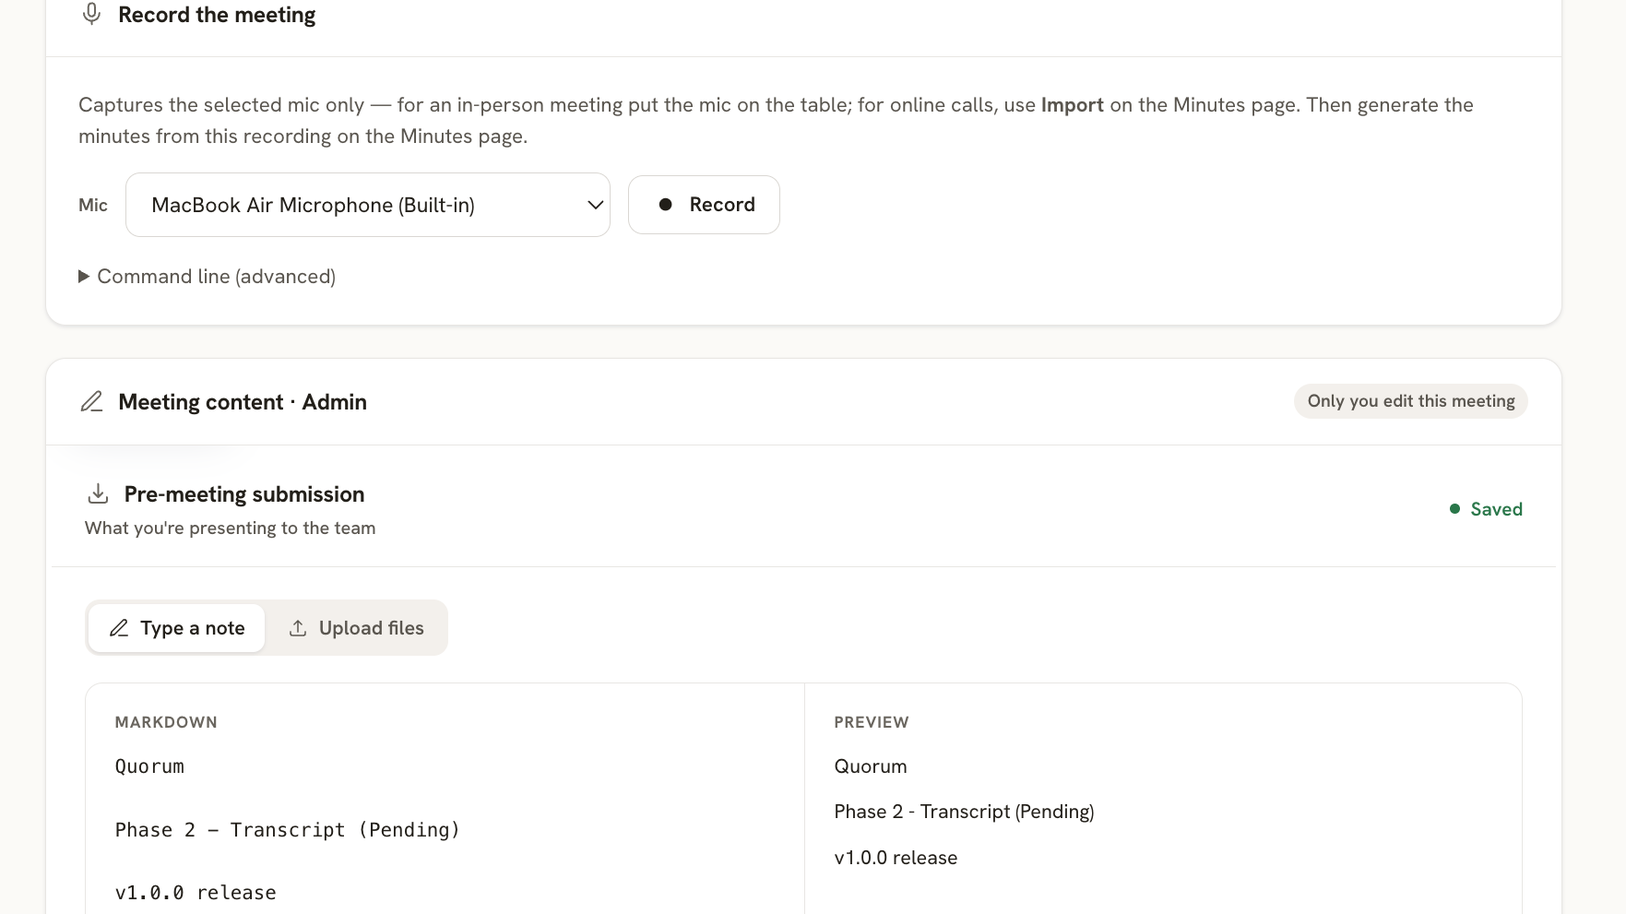
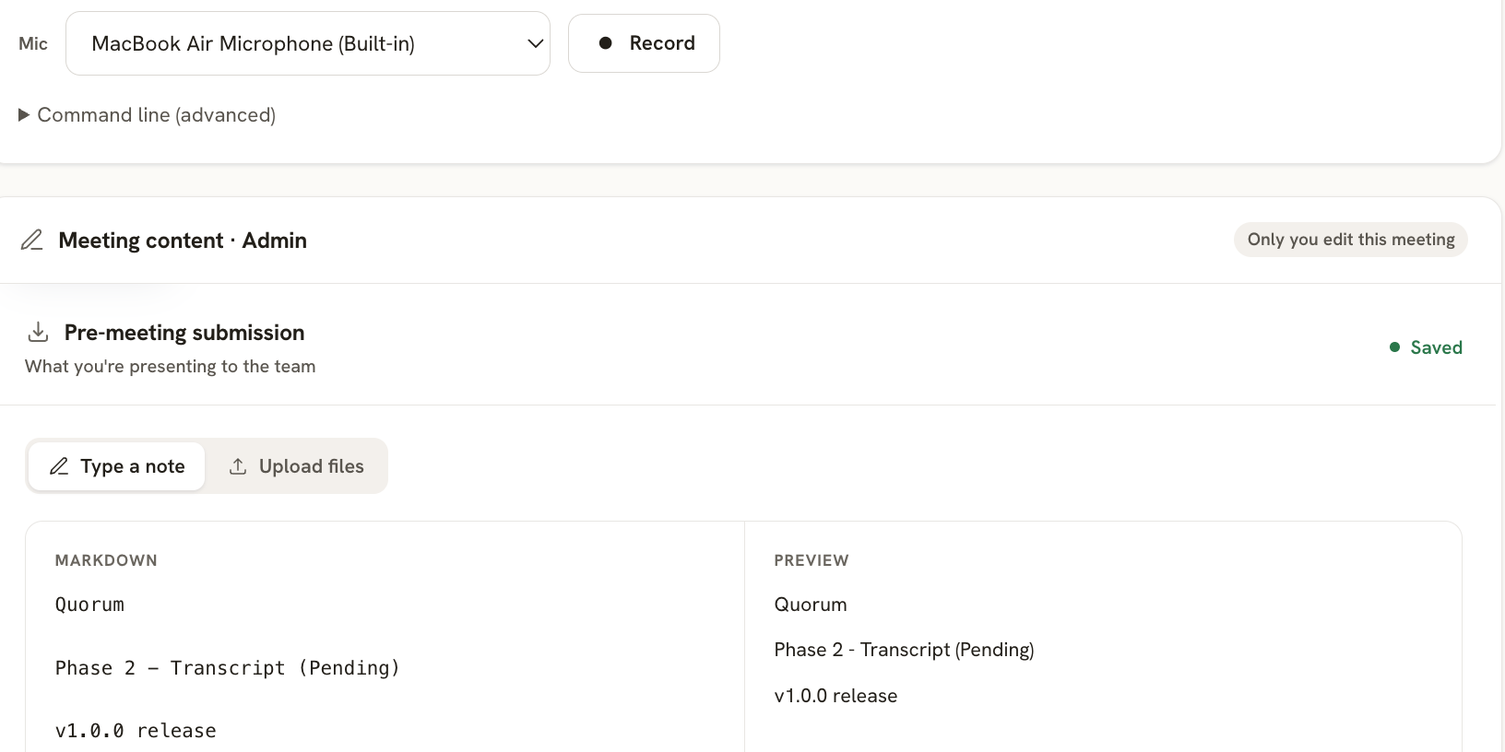
Take every A-005 figure to 2:1
16:9 rendered 546px tall in a 970px column — most of a laptop viewport for one
figure, across six of them. 2:1 is 485px, saving about 364px over the sheet,
and it is the widest ratio the screenshots survive: past it the video loses a
third of its frame and Quorum's form becomes a band.

Nothing was re-shot. cad-to-map is cropped from the original capture, since a
map has no wrong crop. Quorum is cropped upward from the bottom so the Markdown
and preview panes stay whole, and trimmed slightly in width to buy a top edge
that lands in white space instead of through a line of text. The video keeps
its 16:9 file and gets a 2:1 frame with object-fit:cover, which crops about 12%
rather than pillarboxing it out of line with the other five.

The three drawings were re-laid out rather than scaled, so type size and stroke
weight are untouched and only the spacing closed up.

diff --git a/index.html b/index.html
@@ -406,7 +406,7 @@
             network connection. Built to drive touchscreen wayfinding kiosks at highway rest
             stops, then generalised and published so it runs against anyone&rsquo;s drawings.</p>
           <div class="figbox" tabindex="0" role="group" aria-label="Figure 1, scrollable">
-            <img class="fig" width="1920" height="1080" src="assets/images/cad-to-map-viewer.jpg"
+            <img class="fig" width="1920" height="960" src="assets/images/cad-to-map-viewer.jpg"
               alt="3D map viewer built by cad-to-map from a DXF site plan, showing the tool&rsquo;s own demo site rather than client work. Extruded building volumes sit above marked parking bays threaded with directional arrows and pedestrian crossings. Category pins mark parking, toilets, food, fuel, prayer facilities, accessible routes, first aid, bicycles and electric-vehicle charging. A red &ldquo;You Are Here&rdquo; marker sits beside the buildings, and a red dotted line traces the walking route from it to a destination across the site.">
             <div class="figcap"><span>Fig. 05.1 &mdash; Demo site viewer, captured</span><span>cad-to-map demo &mdash; not client work</span></div>
           </div>
@@ -437,58 +437,58 @@
             network monitor, so one physical device carries one identity everywhere.
             Includes a hub backend and an operations console for device state and fault reports.</p>
           <div class="figbox" tabindex="0" role="group" aria-label="Figure 2, scrollable">
-            <svg class="dwg" viewBox="0 0 1000 563" role="img"
+            <svg class="dwg" viewBox="0 0 1000 500" role="img"
               aria-label="Four systems of record each name the same physical device differently: the asset register uses a structured code, the control system a UUID, the sensor platform a bare node number and the network monitor a host name. All four feed a correlation step that resolves them to one device identity, which publishes onto a shared event bus. Off that bus, every fault becomes a report rather than a work order; a person signs before anything is dispatched, and only then does a work order open. Cost, parts and photographs land in an evidence archive.">
-              <text class="tl fd" style="animation-delay:.1s" x="40" y="34">FOUR SYSTEMS &middot; FOUR NAMES FOR ONE DEVICE</text>
+              <text class="tl fd" style="animation-delay:.1s" x="40" y="30">FOUR SYSTEMS &middot; FOUR NAMES FOR ONE DEVICE</text>
 
-              <g class="fd" style="animation-delay:.25s"><rect class="f" x="40" y="54" width="210" height="50" pathLength="1"/>
-                <text class="tn" x="145" y="76" text-anchor="middle">Asset register</text>
-                <text class="ts" x="145" y="92" text-anchor="middle">structured code</text></g>
-              <g class="fd" style="animation-delay:.32s"><rect class="f" x="270" y="54" width="210" height="50" pathLength="1"/>
-                <text class="tn" x="375" y="76" text-anchor="middle">Control system</text>
-                <text class="ts" x="375" y="92" text-anchor="middle">UUID</text></g>
-              <g class="fd" style="animation-delay:.39s"><rect class="f" x="500" y="54" width="210" height="50" pathLength="1"/>
-                <text class="tn" x="605" y="76" text-anchor="middle">Sensor platform</text>
-                <text class="ts" x="605" y="92" text-anchor="middle">node number</text></g>
-              <g class="fd" style="animation-delay:.46s"><rect class="f" x="730" y="54" width="230" height="50" pathLength="1"/>
-                <text class="tn" x="845" y="76" text-anchor="middle">Network monitor</text>
-                <text class="ts" x="845" y="92" text-anchor="middle">host name</text></g>
+              <g class="fd" style="animation-delay:.25s"><rect class="f" x="40" y="46" width="210" height="48" pathLength="1"/>
+                <text class="tn" x="145" y="68" text-anchor="middle">Asset register</text>
+                <text class="ts" x="145" y="84" text-anchor="middle">structured code</text></g>
+              <g class="fd" style="animation-delay:.32s"><rect class="f" x="270" y="46" width="210" height="48" pathLength="1"/>
+                <text class="tn" x="375" y="68" text-anchor="middle">Control system</text>
+                <text class="ts" x="375" y="84" text-anchor="middle">UUID</text></g>
+              <g class="fd" style="animation-delay:.39s"><rect class="f" x="500" y="46" width="210" height="48" pathLength="1"/>
+                <text class="tn" x="605" y="68" text-anchor="middle">Sensor platform</text>
+                <text class="ts" x="605" y="84" text-anchor="middle">node number</text></g>
+              <g class="fd" style="animation-delay:.46s"><rect class="f" x="730" y="46" width="230" height="48" pathLength="1"/>
+                <text class="tn" x="845" y="68" text-anchor="middle">Network monitor</text>
+                <text class="ts" x="845" y="84" text-anchor="middle">host name</text></g>
 
               <g class="c ln" style="animation-delay:.55s"><path
-                d="M145,104 V145 M375,104 V145 M605,104 V145 M845,104 V145 M145,145 H845 M500,145 V175" pathLength="1"/></g>
+                d="M145,94 V130 M375,94 V130 M605,94 V130 M845,94 V130 M145,130 H845 M500,130 V152" pathLength="1"/></g>
 
-              <g class="fd" style="animation-delay:.95s"><path d="M500,175 l-4,-10 h8 z" fill="var(--ink)" pathLength="1"/>
-                <rect class="f" x="330" y="175" width="340" height="62" pathLength="1"/>
-                <text class="tn" x="500" y="201" text-anchor="middle">Correlation</text>
-                <text class="ts" x="500" y="220" text-anchor="middle">one device, one identity</text></g>
+              <g class="fd" style="animation-delay:.95s"><path d="M500,152 l-4,-10 h8 z" fill="var(--ink)" pathLength="1"/>
+                <rect class="f" x="330" y="152" width="340" height="58" pathLength="1"/>
+                <text class="tn" x="500" y="177" text-anchor="middle">Correlation</text>
+                <text class="ts" x="500" y="195" text-anchor="middle">one device, one identity</text></g>
 
-              <g class="k ln" style="animation-delay:.75s"><path d="M500,237 V300 M60,300 H940" pathLength="1"/></g>
-              <text class="tl fd" style="animation-delay:1.05s" x="60" y="292">EVENT BUS &middot; SAID ONCE, HEARD BY ALL</text>
+              <g class="k ln" style="animation-delay:.75s"><path d="M500,210 V262 M60,262 H940" pathLength="1"/></g>
+              <text class="tl fd" style="animation-delay:1.05s" x="60" y="254">EVENT BUS &middot; SAID ONCE, HEARD BY ALL</text>
 
-              <g class="c ln" style="animation-delay:1.1s"><path d="M165,300 V350 M820,300 V350" pathLength="1"/></g>
+              <g class="c ln" style="animation-delay:1.1s"><path d="M165,262 V300 M820,262 V300" pathLength="1"/></g>
 
-              <g class="fd" style="animation-delay:1.3s"><path d="M165,350 l-4,-10 h8 z" fill="var(--ink)" pathLength="1"/>
-                <rect class="f" x="60" y="350" width="210" height="62" pathLength="1"/>
-                <text class="tn" x="165" y="376" text-anchor="middle">Fault report</text>
-                <text class="ts" x="165" y="395" text-anchor="middle">never a work order yet</text></g>
-              <g class="fd" style="animation-delay:1.4s"><rect class="f" x="350" y="350" width="210" height="62" pathLength="1"/>
-                <text class="tn" x="455" y="376" text-anchor="middle">Human gate</text>
-                <text class="ts" x="455" y="395" text-anchor="middle">a person signs</text></g>
-              <g class="fd" style="animation-delay:1.35s"><path d="M820,350 l-4,-10 h8 z" fill="var(--ink)" pathLength="1"/>
-                <rect class="f" x="700" y="350" width="240" height="62" pathLength="1"/>
-                <text class="tn" x="820" y="376" text-anchor="middle">Evidence archive</text>
-                <text class="ts" x="820" y="395" text-anchor="middle">what happened, provably</text></g>
+              <g class="fd" style="animation-delay:1.3s"><path d="M165,300 l-4,-10 h8 z" fill="var(--ink)" pathLength="1"/>
+                <rect class="f" x="60" y="300" width="210" height="58" pathLength="1"/>
+                <text class="tn" x="165" y="325" text-anchor="middle">Fault report</text>
+                <text class="ts" x="165" y="343" text-anchor="middle">never a work order yet</text></g>
+              <g class="fd" style="animation-delay:1.4s"><rect class="f" x="350" y="300" width="210" height="58" pathLength="1"/>
+                <text class="tn" x="455" y="325" text-anchor="middle">Human gate</text>
+                <text class="ts" x="455" y="343" text-anchor="middle">a person signs</text></g>
+              <g class="fd" style="animation-delay:1.35s"><path d="M820,300 l-4,-10 h8 z" fill="var(--ink)" pathLength="1"/>
+                <rect class="f" x="700" y="300" width="240" height="58" pathLength="1"/>
+                <text class="tn" x="820" y="325" text-anchor="middle">Evidence archive</text>
+                <text class="ts" x="820" y="343" text-anchor="middle">what happened, provably</text></g>
 
-              <g class="k ln" style="animation-delay:1.5s"><path d="M270,381 H350 M455,412 V470" pathLength="1"/></g>
-              <g class="fd" style="animation-delay:1.75s"><path d="M350,381 l-10,-4 v8 z" fill="var(--ink)" pathLength="1"/>
-                <path d="M455,470 l-4,-10 h8 z" fill="var(--ink)" pathLength="1"/>
-                <rect class="f" x="350" y="470" width="210" height="58" pathLength="1"/>
-                <text class="tn" x="455" y="494" text-anchor="middle">Work order</text>
-                <text class="ts" x="455" y="512" text-anchor="middle">owner &middot; cost &middot; parts</text></g>
+              <g class="k ln" style="animation-delay:1.5s"><path d="M270,331 H350 M455,358 V402" pathLength="1"/></g>
+              <g class="fd" style="animation-delay:1.75s"><path d="M350,331 l-10,-4 v8 z" fill="var(--ink)" pathLength="1"/>
+                <path d="M455,402 l-4,-10 h8 z" fill="var(--ink)" pathLength="1"/>
+                <rect class="f" x="350" y="402" width="210" height="54" pathLength="1"/>
+                <text class="tn" x="455" y="425" text-anchor="middle">Work order</text>
+                <text class="ts" x="455" y="442" text-anchor="middle">owner &middot; cost &middot; parts</text></g>
 
-              <g class="c ln" style="animation-delay:1.85s"><path d="M560,499 H820 V412" pathLength="1"/></g>
+              <g class="c ln" style="animation-delay:1.85s"><path d="M560,429 H820 V358" pathLength="1"/></g>
 
-              <text class="tl fd" style="animation-delay:2s" x="40" y="552">ONE DEVICE &middot; ONE IDENTITY &middot; NOTHING DISPATCHED UNATTENDED</text>
+              <text class="tl fd" style="animation-delay:2s" x="40" y="486">ONE DEVICE &middot; ONE IDENTITY &middot; NOTHING DISPATCHED UNATTENDED</text>
             </svg>
             <div class="figcap"><span>Fig. 05.2 &mdash; Identity and the fault path</span><span>Client work &mdash; systems shown by role</span></div>
           </div>
@@ -519,48 +519,48 @@
             that printer: it presents the interface the point-of-sale already speaks, then
             forwards each job to whatever thermal printers the restaurant actually owns.</p>
           <div class="figbox" tabindex="0" role="group" aria-label="Figure 3, scrollable">
-            <svg class="dwg" viewBox="0 0 1000 563" role="img"
+            <svg class="dwg" viewBox="0 0 1000 500" role="img"
               aria-label="The point-of-sale renders each receipt to a bitmap and posts it, unauthenticated, to the one printer address it is configured for. A shim answers at that address, so the point-of-sale believes it is talking to a single network printer. The shim decodes the bitmap and forwards it, routed by a path in the destination URL, into one delivery queue per real printer, so a stuck printer blocks only itself; here the front desk and the kitchen. Because nothing re-renders the receipt along the way, the bitmap that prints is the same bitmap the screen showed.">
-              <text class="tl fd" style="animation-delay:.1s" x="40" y="32">ONE INTERFACE &middot; MANY REAL PRINTERS</text>
+              <text class="tl fd" style="animation-delay:.1s" x="40" y="28">ONE INTERFACE &middot; MANY REAL PRINTERS</text>
 
-              <g class="fd" style="animation-delay:.3s"><rect class="f" x="40" y="190" width="230" height="80" pathLength="1"/>
-                <text class="tn" x="155" y="224" text-anchor="middle">Point-of-Sale</text>
-                <text class="ts" x="155" y="244" text-anchor="middle">renders a bitmap</text></g>
+              <g class="fd" style="animation-delay:.3s"><rect class="f" x="40" y="160" width="230" height="72" pathLength="1"/>
+                <text class="tn" x="155" y="191" text-anchor="middle">Point-of-Sale</text>
+                <text class="ts" x="155" y="211" text-anchor="middle">renders a bitmap</text></g>
 
-              <text class="ts fd" style="animation-delay:.5s" x="350" y="170" text-anchor="middle">posts it, unauthenticated</text>
-              <g class="k ln" style="animation-delay:.45s"><path d="M270,230 H430" pathLength="1"/></g>
+              <text class="ts fd" style="animation-delay:.5s" x="350" y="145" text-anchor="middle">posts it, unauthenticated</text>
+              <g class="k ln" style="animation-delay:.45s"><path d="M270,196 H430" pathLength="1"/></g>
 
-              <g class="fd" style="animation-delay:.75s"><rect class="dm" x="410" y="155" width="270" height="150"
+              <g class="fd" style="animation-delay:.75s"><rect class="dm" x="410" y="128" width="270" height="140"
                   stroke-dasharray="5 4" pathLength="1"/>
-                <text class="tl" x="420" y="148">BELIEVED: ONE NETWORK PRINTER</text></g>
+                <text class="tl" x="420" y="122">BELIEVED: ONE NETWORK PRINTER</text></g>
 
-              <g class="fd" style="animation-delay:.85s"><path d="M430,230 l-10,-4 v8 z" fill="var(--ink)" pathLength="1"/>
-                <rect class="f" x="430" y="190" width="230" height="80" pathLength="1"/>
-                <text class="tn" x="545" y="224" text-anchor="middle">Shim</text>
-                <text class="ts" x="545" y="244" text-anchor="middle">answers as that printer</text></g>
+              <g class="fd" style="animation-delay:.85s"><path d="M430,196 l-10,-4 v8 z" fill="var(--ink)" pathLength="1"/>
+                <rect class="f" x="430" y="160" width="230" height="72" pathLength="1"/>
+                <text class="tn" x="545" y="191" text-anchor="middle">Shim</text>
+                <text class="ts" x="545" y="211" text-anchor="middle">answers as that printer</text></g>
 
               <g class="c ln" style="animation-delay:1s">
-                <path d="M660,230 H700 M700,150 V310 M700,150 H760 M700,310 H760" pathLength="1"/></g>
-              <text class="ts fd" style="animation-delay:1.15s" x="712" y="238">routed by URL path</text>
+                <path d="M660,196 H700 M700,124 V274 M700,124 H760 M700,274 H760" pathLength="1"/></g>
+              <text class="ts fd" style="animation-delay:1.15s" x="712" y="204">routed by URL path</text>
 
-              <g class="fd" style="animation-delay:1.3s"><rect class="f" x="760" y="124" width="100" height="52" pathLength="1"/>
-                <text class="tn" x="810" y="155" text-anchor="middle">Queue</text>
-                <rect class="f" x="760" y="284" width="100" height="52" pathLength="1"/>
-                <text class="tn" x="810" y="315" text-anchor="middle">Queue</text></g>
+              <g class="fd" style="animation-delay:1.3s"><rect class="f" x="760" y="98" width="100" height="52" pathLength="1"/>
+                <text class="tn" x="810" y="129" text-anchor="middle">Queue</text>
+                <rect class="f" x="760" y="248" width="100" height="52" pathLength="1"/>
+                <text class="tn" x="810" y="279" text-anchor="middle">Queue</text></g>
 
-              <g class="c ln" style="animation-delay:1.4s"><path d="M860,150 H880 M860,310 H880" pathLength="1"/></g>
-              <g class="fd" style="animation-delay:1.55s"><rect class="f" x="880" y="124" width="110" height="52" pathLength="1"/>
-                <text class="tn" x="935" y="155" text-anchor="middle">Front desk</text>
-                <rect class="f" x="880" y="284" width="110" height="52" pathLength="1"/>
-                <text class="tn" x="935" y="315" text-anchor="middle">Kitchen</text></g>
+              <g class="c ln" style="animation-delay:1.4s"><path d="M860,124 H880 M860,274 H880" pathLength="1"/></g>
+              <g class="fd" style="animation-delay:1.55s"><rect class="f" x="880" y="98" width="110" height="52" pathLength="1"/>
+                <text class="tn" x="935" y="129" text-anchor="middle">Front desk</text>
+                <rect class="f" x="880" y="248" width="110" height="52" pathLength="1"/>
+                <text class="tn" x="935" y="279" text-anchor="middle">Kitchen</text></g>
 
-              <text class="ts fd" style="animation-delay:1.65s" x="760" y="368">one queue per printer &mdash;</text>
-              <text class="ts fd" style="animation-delay:1.7s" x="760" y="384">a stuck printer blocks only itself</text>
+              <text class="ts fd" style="animation-delay:1.65s" x="760" y="330">one queue per printer &mdash;</text>
+              <text class="ts fd" style="animation-delay:1.7s" x="760" y="346">a stuck printer blocks only itself</text>
 
-              <g class="dm fd" style="animation-delay:1.85s"><path d="M155,270 V460 H935 V336" pathLength="1"/></g>
-              <text class="tl fd" style="animation-delay:1.95s" x="545" y="450" text-anchor="middle">SAME BITMAP END TO END</text>
+              <g class="dm fd" style="animation-delay:1.85s"><path d="M155,232 V400 H935 V300" pathLength="1"/></g>
+              <text class="tl fd" style="animation-delay:1.95s" x="545" y="390" text-anchor="middle">SAME BITMAP END TO END</text>
 
-              <text class="tl fd" style="animation-delay:2.1s" x="40" y="530">NOTHING RE-RENDERS THE RECEIPT &middot; SCREEN AND PAPER CANNOT DRIFT</text>
+              <text class="tl fd" style="animation-delay:2.1s" x="40" y="470">NOTHING RE-RENDERS THE RECEIPT &middot; SCREEN AND PAPER CANNOT DRIFT</text>
             </svg>
             <div class="figcap"><span>Fig. 05.3 &mdash; Print path</span><span>Client work &mdash; drawn, no capture available</span></div>
           </div>
@@ -591,25 +591,25 @@
             invented one. It answers only from real data and prints its sources. Built against
             Formula 1 timing data.</p>
           <div class="figbox" tabindex="0" role="group" aria-label="Figure 4, scrollable">
-            <svg class="dwg" viewBox="0 0 1000 563" role="img"
+            <svg class="dwg" viewBox="0 0 1000 500" role="img"
               aria-label="Terminal transcript of running python -m scoutmini pace Leclerc Monaco, season 2024, against real FastF1 timing data: Charles Leclerc&rsquo;s fastest lap, median race pace and tyre strategy for the 2024 Monaco Grand Prix, with the data source printed as the final, emphasised line.">
-              <text class="tl fd" style="animation-delay:.1s" x="40" y="32">ASKED IN ENGLISH &middot; ANSWERED FROM REAL DATA</text>
+              <text class="tl fd" style="animation-delay:.1s" x="40" y="30">ASKED IN ENGLISH &middot; ANSWERED FROM REAL DATA</text>
 
-              <g class="fd" style="animation-delay:.3s"><rect class="f" x="40" y="70" width="920" height="430" pathLength="1"/></g>
-              <g class="fd" style="animation-delay:.45s"><text class="ts" x="64" y="118" style="fill:var(--ink)">$ python -m scoutmini pace Leclerc Monaco --season 2024</text></g>
+              <g class="fd" style="animation-delay:.3s"><rect class="f" x="40" y="62" width="920" height="372" pathLength="1"/></g>
+              <g class="fd" style="animation-delay:.45s"><text class="ts" x="64" y="104" style="fill:var(--ink)">$ python -m scoutmini pace Leclerc Monaco --season 2024</text></g>
               <g class="fd" style="animation-delay:.7s">
-                <text class="ts" x="64" y="180">Charles Leclerc &mdash; Monaco Grand Prix 2024 (R)</text>
-                <text class="ts" x="64" y="224">LEC &mdash; fastest 1:15.162, median race pace 1:18.500 over 76 accurate laps.</text>
-                <text class="ts" x="64" y="268">Tyre strategy: MEDIUM (L1-1, 1 laps), HARD (L2-78, 77 laps)</text>
+                <text class="ts" x="64" y="158">Charles Leclerc &mdash; Monaco Grand Prix 2024 (R)</text>
+                <text class="ts" x="64" y="198">LEC &mdash; fastest 1:15.162, median race pace 1:18.500 over 76 accurate laps.</text>
+                <text class="ts" x="64" y="238">Tyre strategy: MEDIUM (L1-1, 1 laps), HARD (L2-78, 77 laps)</text>
               </g>
-              <g class="c ln" style="animation-delay:.85s"><path d="M64,306 H936" pathLength="1"/></g>
-              <g class="fd" style="animation-delay:1s"><text class="ts" x="64" y="348" style="fill:var(--ink)" font-weight="600">Source: FastF1 (official F1 timing data)</text></g>
-              <g class="dm fd" style="animation-delay:1.2s"><path d="M64,368 H312 M64,362 V374 M312,362 V374" pathLength="1"/></g>
-              <text class="tl fd" style="animation-delay:1.3s" x="188" y="392" text-anchor="middle">EVERY REPORT PRINTS ITS SOURCES</text>
-              <g class="fd" style="animation-delay:1.5s"><text class="ts" x="64" y="450" style="fill:var(--ink)">$</text>
-                <rect x="78" y="439" width="9" height="13" fill="var(--ink)"/></g>
+              <g class="c ln" style="animation-delay:.85s"><path d="M64,270 H936" pathLength="1"/></g>
+              <g class="fd" style="animation-delay:1s"><text class="ts" x="64" y="306" style="fill:var(--ink)" font-weight="600">Source: FastF1 (official F1 timing data)</text></g>
+              <g class="dm fd" style="animation-delay:1.2s"><path d="M64,324 H312 M64,318 V330 M312,318 V330" pathLength="1"/></g>
+              <text class="tl fd" style="animation-delay:1.3s" x="188" y="348" text-anchor="middle">EVERY REPORT PRINTS ITS SOURCES</text>
+              <g class="fd" style="animation-delay:1.5s"><text class="ts" x="64" y="400" style="fill:var(--ink)">$</text>
+                <rect x="78" y="389" width="9" height="13" fill="var(--ink)"/></g>
 
-              <text class="tl fd" style="animation-delay:1.65s" x="40" y="545">THE MODEL NEVER ANSWERS FROM MEMORY</text>
+              <text class="tl fd" style="animation-delay:1.65s" x="40" y="478">THE MODEL NEVER ANSWERS FROM MEMORY</text>
             </svg>
             <div class="figcap"><span>Fig. 05.4 &mdash; Real CLI output, verbatim</span><span>FastF1 timing data</span></div>
           </div>
@@ -637,7 +637,7 @@
             Teams submit before the meeting, an admin reviews and records it, minutes are generated
             against a template, and everything is exported and kept searchable afterwards.</p>
           <div class="figbox" tabindex="0" role="group" aria-label="Figure 5, scrollable">
-            <img class="fig" width="1763" height="991" src="assets/images/quorum-pre-meeting-submission.png"
+            <img class="fig" width="1632" height="816" src="assets/images/quorum-pre-meeting-submission.png"
               alt="Quorum&rsquo;s admin console, running. A &ldquo;Record the meeting&rdquo; panel selects a microphone and starts a recording, noting that an in-person meeting is captured from the mic while an online call is imported instead. Below it, the &ldquo;Meeting content&rdquo; panel holds a pre-meeting submission, marked &ldquo;Saved&rdquo; and flagged as editable only by this admin: a Markdown pane on the left and its rendered preview on the right, both showing the same agenda headings.">
             <div class="figcap"><span>Fig. 05.5 &mdash; Pre-meeting submission, captured</span><span>Live application</span></div>
           </div>
@@ -667,7 +667,7 @@
             numbers any swimmer can record at the pool, and turns them into the few that show
             whether a race went well.</p>
           <div class="figbox" tabindex="0" role="group" aria-label="Figure 6, scrollable">
-            <video class="fig" width="2916" height="1656" style="aspect-ratio:2916/1656"
+            <video class="fig" width="2916" height="1656" style="aspect-ratio:2/1"
               poster="assets/images/splitwise-dashboard.jpg"
               src="assets/videos/splitwise-demo.mp4"
               preload="none" muted controls playsinline

diff --git a/assets/css/blueprint.css b/assets/css/blueprint.css
@@ -494,7 +494,9 @@ p{margin:0;color:var(--sec)}
    sideways pan on every viewport under about 1100px. */
 .figbox img,.figbox video{width:100%;max-width:100%;height:auto;display:block;
   border:1px solid var(--hair)}
-.figbox video{object-fit:contain;background:var(--paper)}
+/* The recording is 16:9 inside a 2:1 frame. Cover crops ~12% off the top and
+   bottom; contain would pillarbox it and break the row of equal figures. */
+.figbox video{object-fit:cover;background:var(--paper)}
 
 /* Cover drawing frame, responsive. Registration marks are document notation, not
    interface: .rule is absolutely positioned with pointer-events:none, so it never
